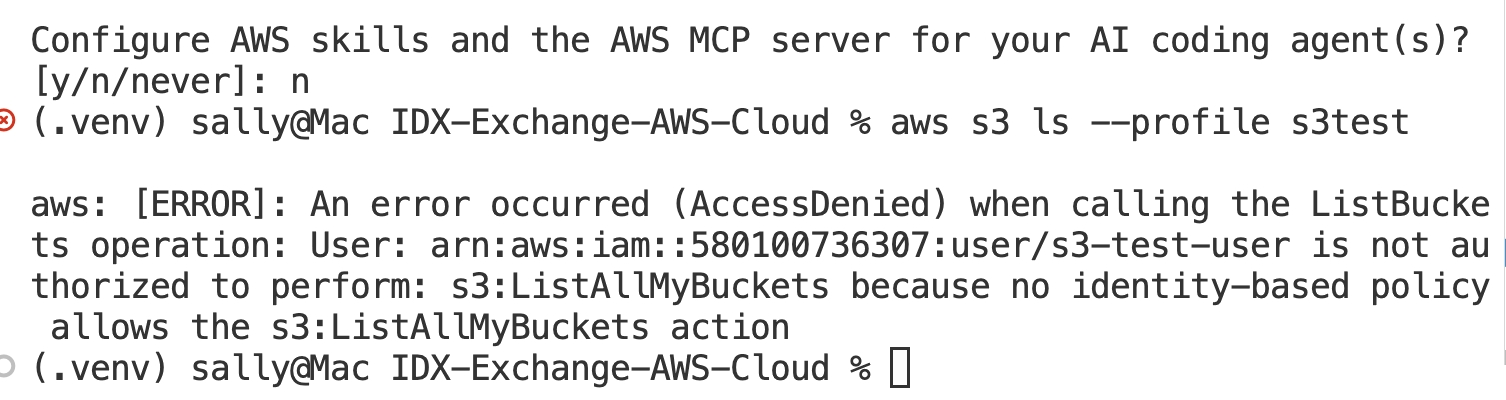
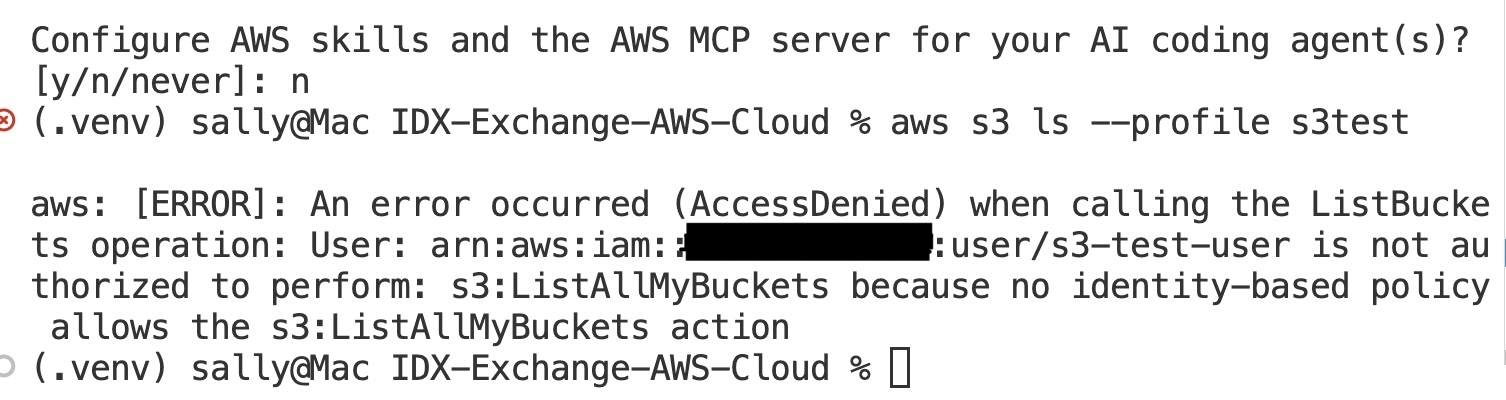
updated week2

Changed region(s): [[0.4369, 0.54, 0.6242, 0.66]]

diff --git a/README.md b/README.md
@@ -1,1 +1,21 @@
-# AWS Cloud Engineer Journey
+# IDX Exchange AWS Cloud Engineering Internship
+
+This repository documents my learning and hands-on labs during the
+IDX Exchange AWS Cloud Engineering Internship.
+
+---
+
+## Week 01 — Cloud Fundamentals & Account Setup
+
+### For week 1, we focus on foundational AWS account security and the critical distinction between the root user and IAM users. The root user is the parent account created when the account was created, and has unrestricted power over the entire AWS account, including closing the account, deleting all data, and modifying credit card payment information. Therefore, we need to lock the MFA and put it in a safe, never use it for routine operations. The routine task must be operated by an IAM user, and needs to follow the principle of least privilege: grant only the necessary permissions, and the access key can be rotated or revoked at any time to reduce the disaster in the event of a leak.
+### Under the Shared Responsibility Model, Amazon famously states that "AWS secures OF the cloud, you secure IN the cloud." Their responsibility covers physical and underlying defenses, physical data centers, hardware facilities, and virtualization layers. And for the customer side, including  operating system updates, security groups, identity and access control (IAM), and data encryption. This is achieved through the zero-spend budget alert set this week. All of these reinforces the fundamental requirement for cloud architects to strike a balance between system security and cost control.
+
+
+## Week 02 — IAM & Security Foundations
+
+
+In the week2 json file, the custom IAM policy conforming to the Least Privilege principle was established and validated. This policy strictly restricts the test user `s3-test-user` to only perform object-level read and upload operations `s3:GetObject and s3:PutObject` under the specified path my-training-bucket-sally/*, while deliberately excluding global storage enumeration permissions `s3:ListAllMyBuckets` and storage-level list permissions `s3:ListBucket`. 
+
+When executing `aws s3 ls --profile s3 test` on the terminal triggers an AccessDenied error, it fully verifies the default denial logic in the AWS policy evaluation mechanism, proving that the user is precisely restricted to the minimum authorized scope and cannot arbitrarily snoop on or laterally access other resources in the account. 
+
+Furthermore, during the troubleshooting process in Debug Lab 2.3, I also gained a deeper understanding of the key differences between object-level ARNs (ending with /*) and storage-level ARNs (without /*). If a storage-level path is assigned to an object operation (such as s3:PutObject), it will be blocked due to resource mismatch. This demonstrates the importance of accurately defining cloud permission boundaries for system security and problem diagnosis.
